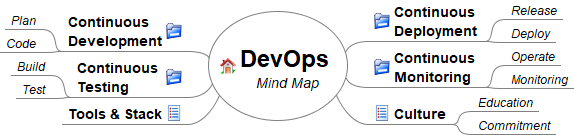
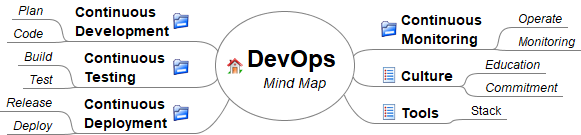
.

diff --git a/doc/MindMap DevOps.mm b/doc/MindMap DevOps.mm
@@ -15,7 +15,7 @@
   </body>
 </html></richcontent>
 <icon BUILTIN="gohome"/>
-<node CREATED="1560511984776" ID="ID_1173631083" MODIFIED="1561075653255" POSITION="left">
+<node CREATED="1560511984776" ID="ID_1173631083" MODIFIED="1561213815467" POSITION="left">
 <richcontent TYPE="NODE"><html>
   <head>
     
@@ -28,17 +28,18 @@
       <font size="4">Development</font>
     </p>
   </body>
-</html></richcontent>
+</html>
+</richcontent>
 <font BOLD="true" NAME="SansSerif" SIZE="12"/>
 <icon BUILTIN="folder"/>
-<node CREATED="1560512150274" ID="ID_508662412" MODIFIED="1561156902295" TEXT="Plan">
+<node CREATED="1560512150274" ID="ID_508662412" MODIFIED="1561213293650" TEXT="Plan">
 <font ITALIC="true" NAME="SansSerif" SIZE="12"/>
 </node>
 <node CREATED="1560512156115" ID="ID_718213434" MODIFIED="1561156904900" TEXT="Code">
 <font ITALIC="true" NAME="SansSerif" SIZE="12"/>
 </node>
 </node>
-<node CREATED="1560512013898" ID="ID_1498968330" MODIFIED="1561075653255" POSITION="left">
+<node CREATED="1560512013898" ID="ID_1498968330" MODIFIED="1561213814772" POSITION="left">
 <richcontent TYPE="NODE"><html>
   <head>
     
@@ -51,49 +52,14 @@
       <font size="4">Testing</font>
     </p>
   </body>
-</html></richcontent>
+</html>
+</richcontent>
 <font BOLD="true" NAME="SansSerif" SIZE="12"/>
 <icon BUILTIN="folder"/>
 <node CREATED="1560512177181" ID="ID_931000248" MODIFIED="1561156911908" TEXT="Build">
 <font ITALIC="true" NAME="SansSerif" SIZE="12"/>
 </node>
 <node CREATED="1560512179567" ID="ID_982319677" MODIFIED="1561156914241" TEXT="Test">
-<font ITALIC="true" NAME="SansSerif" SIZE="12"/>
-</node>
-</node>
-<node CREATED="1561156710848" ID="ID_1071559844" MODIFIED="1561157148994" POSITION="left">
-<richcontent TYPE="NODE"><html>
-  <head>
-    
-  </head>
-  <body>
-    <p>
-      <b><font size="4">Tools &amp; Stack</font></b>
-    </p>
-  </body>
-</html></richcontent>
-<icon BUILTIN="list"/>
-</node>
-<node CREATED="1560512025839" ID="ID_672184253" MODIFIED="1561075653255" POSITION="right">
-<richcontent TYPE="NODE"><html>
-  <head>
-    
-  </head>
-  <body>
-    <p>
-      <font size="4">Continuous </font>
-    </p>
-    <p>
-      <font size="4">Deployment</font>
-    </p>
-  </body>
-</html></richcontent>
-<font BOLD="true" NAME="SansSerif" SIZE="12"/>
-<icon BUILTIN="folder"/>
-<node CREATED="1560512185562" ID="ID_579638188" MODIFIED="1560539480831" TEXT="Release">
-<font ITALIC="true" NAME="SansSerif" SIZE="12"/>
-</node>
-<node CREATED="1560512187847" ID="ID_1244701246" MODIFIED="1560539480832" TEXT="Deploy">
 <font ITALIC="true" NAME="SansSerif" SIZE="12"/>
 </node>
 </node>
@@ -136,6 +102,44 @@
 <font ITALIC="true" NAME="SansSerif" SIZE="12"/>
 </node>
 <node CREATED="1561156922814" ID="ID_423511767" MODIFIED="1561158393868" TEXT="Commitment">
+<font ITALIC="true" NAME="SansSerif" SIZE="12"/>
+</node>
+</node>
+<node CREATED="1561156710848" ID="ID_1071559844" MODIFIED="1561213185412" POSITION="right">
+<richcontent TYPE="NODE"><html>
+  <head>
+    
+  </head>
+  <body>
+    <p>
+      <b><font size="4">Tools</font></b>
+    </p>
+  </body>
+</html></richcontent>
+<icon BUILTIN="list"/>
+<node CREATED="1561213490096" ID="ID_1228617103" MODIFIED="1561213545994" TEXT="Stack"/>
+</node>
+<node CREATED="1560512025839" ID="ID_672184253" MODIFIED="1561213814166" POSITION="left">
+<richcontent TYPE="NODE"><html>
+  <head>
+    
+  </head>
+  <body>
+    <p>
+      <font size="4">Continuous </font>
+    </p>
+    <p>
+      <font size="4">Deployment</font>
+    </p>
+  </body>
+</html>
+</richcontent>
+<font BOLD="true" NAME="SansSerif" SIZE="12"/>
+<icon BUILTIN="folder"/>
+<node CREATED="1560512185562" ID="ID_579638188" MODIFIED="1560539480831" TEXT="Release">
+<font ITALIC="true" NAME="SansSerif" SIZE="12"/>
+</node>
+<node CREATED="1560512187847" ID="ID_1244701246" MODIFIED="1560539480832" TEXT="Deploy">
 <font ITALIC="true" NAME="SansSerif" SIZE="12"/>
 </node>
 </node>

diff --git a/README.md b/README.md
@@ -3,21 +3,25 @@
 ## 1. Introdução
 
 ### 1.1. Objetivo
-O objetivo deste projeto é compilar, organizar e documentar cenários de laboratórios, práticas e experiências de **DevOps**.
+O objetivo deste projeto é compilar, organizar e documentar __cenários__ de laboratórios, práticas e experiências de **DevOps**.
 
 
 ### 1.2. O que é DevOps
-O DevOps é um conjunto de práticas que automatizam os processos entre equipes de desenvolvimento de software e de TI para que possam criar, testar e liberar softwares de maneira mais rápida e confiável.
+O DevOps é um conjunto de práticas que automatizam os processos entre equipes de desenvolvimento de software e de TI para que possam criar, testar e liberar softwares de maneira mais rápida e confiável. Não há consenso sobre uma metodologia única ou padrão. Cada empresa constrói a sua prática.
 
 
 ### 1.3. Como os cenários estão organizados
-A estratégia do projeto **devops-labs** é agrupar os cenários por critérios crescente de complexidade, dentro de um grupo de assuntos. Será comum encontrar um cenário que referencie um cenário anteriormente descrito, extendendo-o para uma nova funcionalidade. 
+A estratégia deste projeto é __agrupar os cenários em tópicos__ por critérios comuns e ordem crescente de complexidade. Será comum encontrar um cenário que referencie um cenário anteriormente descrito, extendendo-o para uma nova funcionalidade. 
 
-Os cenários serão organizados em tópicos comuns, com objetivo de dar uniformidade a leitura e referência. Na parte inicial de cada cenário, terá um __Mapa Mental (Mind Map)__ derivado deste abaixo.
+Os cenários serão organizados em tópicos comuns, com objetivo de dar uniformidade a leitura e referência. E também, a organização por __Mapa Mental (Mind Map)__ trará de forma progressiva a consolidação dos conceitos, práticas e experiências de DevOps. Na parte inicial de cada cenário, terá um __Mapa Mental (Mind Map)__ derivado deste abaixo.
 
 ![MindMap DevOps](doc/MindMap%20DevOps.png)
 
-Os cenários poderão conter diagramas de contexto. Serão usados os diagramas UML de __Use Case Diagram__, __Deploy Diagram__, __Activity Diagram__ ,  __BMPN Diagrams__ e qualquer outro tipo de figuras e vídeos com objetivo de enriquecer a documentação do cenário.
+Embora esta documentação agrupe tópicos comuns, vale lembrar que as melhores experiências e resultados com DevOps se dão com a maturidade crescente de todos os tópicos. Este comentário é para desencorajar a certeza de sucesso na implantação de DevOps de forma sequencial, grupo a grupo, tópico a tópico do __MindMap__ apresentado. Penso que a melhor estratégia é diluir as iniciativas pelos tópicos, em uma abordagem crescente de complexidade, sempre suportada pela __Cultura (Culture)__ e __Ferramenta (Tools)__. Não é um caminho de sucesso garantido, muito pelo contrário, revisões podem e devem acontecer. É comum encontrar situações onde será necessário abandonar um processo já implantado e funcionando em pról outro processo com maior nível de automatização.
+
+Os cenários poderão conter diagramas de contexto. Serão usados os diagramas UML de __Use Case Diagram__, __Deploy Diagram__, __Activity Diagram__ ,  __BMPN Diagrams__ e qualquer outro tipo de figuras e vídeos com objetivo de enriquecer a documentação do cenário. As ferramenta(s) utilizada(s) para escrever os diagramas são [DrawIo](https://www.draw.io/) e [Free Mind](https://freemind.br.softonic.com/).
+
+A medida que a maturidade das práticas e experiências são ampliadas, faz-se necessário reaproveitar cenários anteriores como __cenários base__ a partir do qual a evolução ocorre. Também poderá fazer-se necessário contar uma história (contextualizar) para dar sentido ao cenário.
 
 
 ---
@@ -25,10 +29,15 @@ Os cenários poderão conter diagramas de contexto. Serão usados os diagramas U
 
 ### 2.1. Cenários
 
+#### a. Nivel Baixo de Maturidade
 
+#### b. Nivel Médio de Maturidade
+
+#### c. Nivel Elevado de Maturidade
 
 ---
 ## I - Referências
 
 * [Learning Become a Devops Engineer](https://www.linkedin.com/learning/paths/become-a-devops-engineer)
 * [Flow Diagram of Tools used in Devops](https://medium.com/devops-process-and-tools/flow-diagram-of-tools-used-in-devops-b8d9f944ef21)
+* [DevOps Stack Tools](https://www.agilestacks.com/products/devops-stack)
